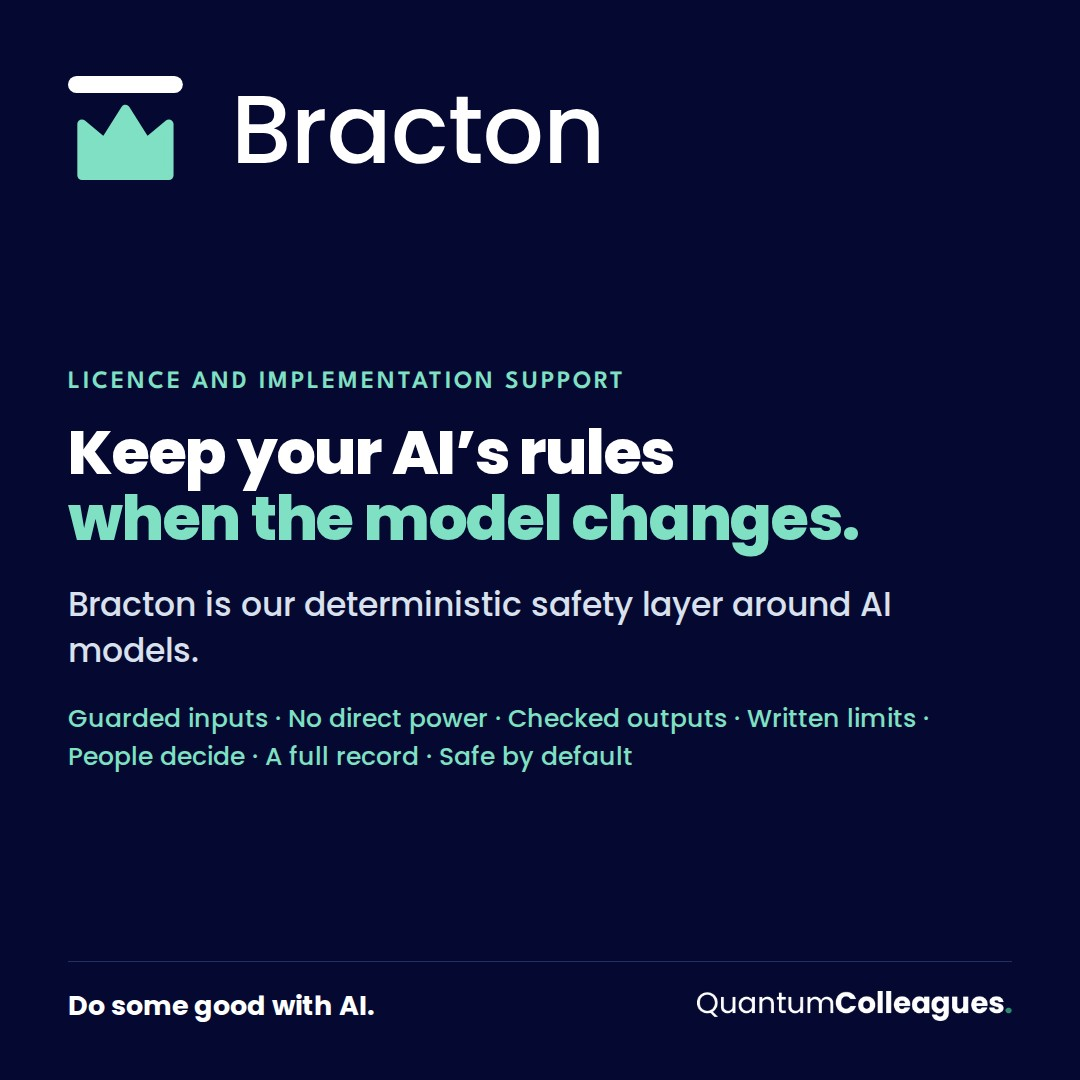
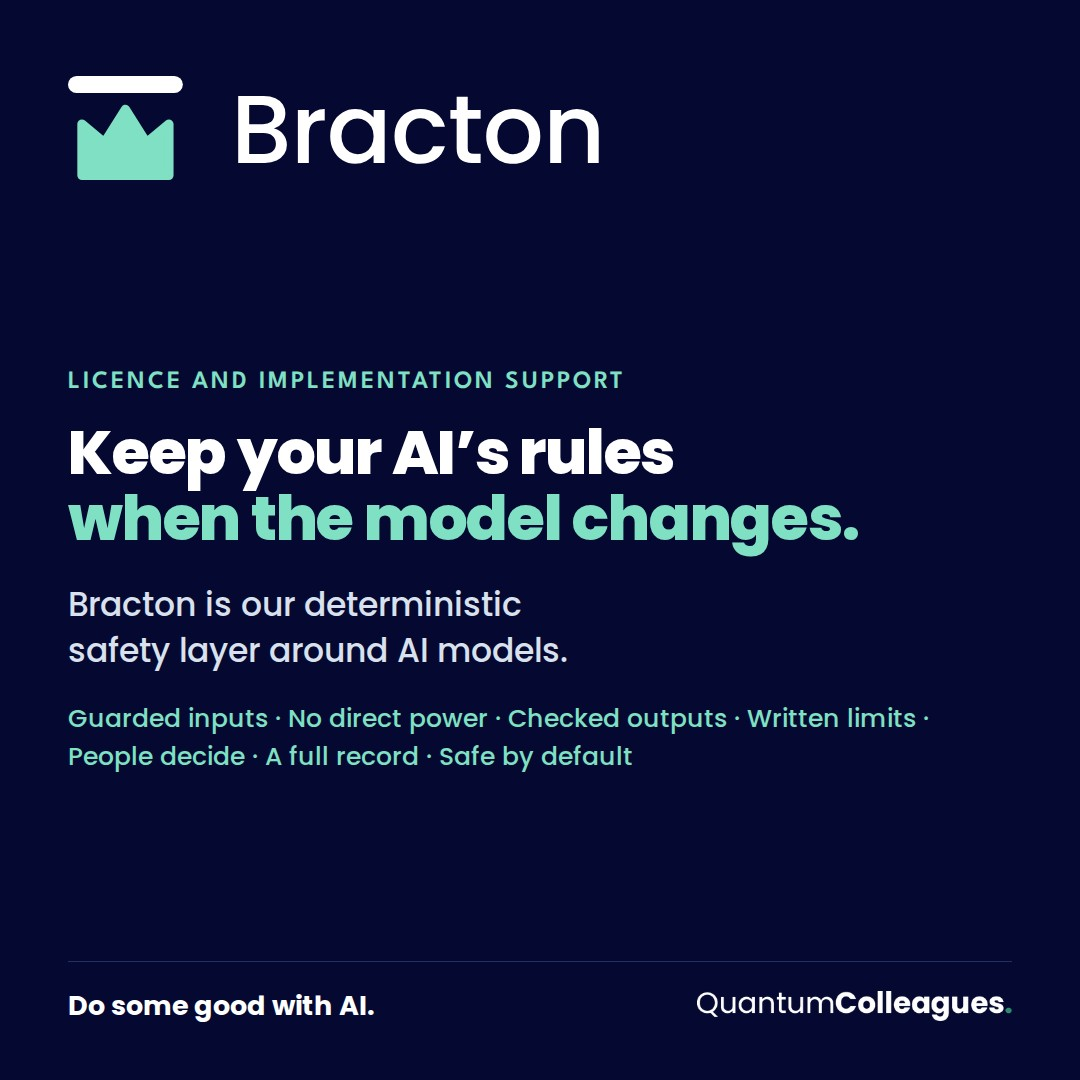
[C] Bracton page: house colour for the Admin Core link, and the tile's first sentence on two balanced lines
Both seen in the phone previews before they went to Jonathan.
verify_bracton_page.py GREEN 87/87, 29 of 29 planted faults caught.
verify_care_playbook.py now checks for a CHANGELOG entry that names the
Playbook rather than the top entry (GREEN 31/31). Not live.

Claude-Session: https://claude.ai/code/session_01XdWH4wgcDAKPyqL2U9NkLZ

Changed region(s): [[0.0611, 0.55, 0.825, 0.6417]]

diff --git a/bracton.html b/bracton.html
@@ -131,6 +131,7 @@
 <meta name="twitter:image" content="https://quantumcolleagues.org/bracton-social.jpg">
 <link rel="icon" href="/favicon.ico" sizes="any">
 <link rel="apple-touch-icon" href="/apple-touch-icon.png">
+<style>.column a{color:#1F6B53;font-weight:600;text-decoration:underline;text-underline-offset:3px}</style>
 </head>
 <body>
 

diff --git a/CHANGELOG.md b/CHANGELOG.md
@@ -1,3 +1,8 @@
+## 2026-11-20 [C] Bracton page: the Admin Core link in the house colour, and the tile's first sentence on two balanced lines (on dev, not live)
+- Seen in the phone previews before they went to Jonathan. The Admin Core link in the page's last section showed in the browser's default blue, because the house service page leaves links in its columns unstyled. bracton.html now gives them the deep teal #1F6B53 that the house uses for text links on light backgrounds (build_bracton_page.py). On bracton-tile.jpg the first sentence left "models." alone on its second line, and it is now balanced over its two lines (make_bracton_page_images.py). bracton-social.jpg renders byte for byte as before.
+- verify_bracton_page.py gains a check for the link colour and is GREEN 87/87, and plant_faults_bracton_page.py caught 29 of 29 with the new fault included.
+- Verifier upkeep: verify_care_playbook.py checked that the top CHANGELOG entry named the Playbook, which any later entry breaks (the entry for e906e02 did). It now checks that the heading of an entry names the Playbook page, and it is GREEN 31/31 here; plant_faults_care_playbook_copy.py caught 7 of 7.
+
 ## 2026-11-20 [C] Bracton gets its own page, licensed with implementation support, and is listed on Products, Admin Core, the Bracton Thought, llms.txt and the sitemap (on dev, not live)
 - Jonathan, 19 Nov 10:07 UK: license Bracton with implementation support, and "The page should be all about that on the website." At 23:09 UK: "I think Bracton needs to be independent to but complementary too Admin Core. It should be stand alone". On 20 Nov at 08:07 UK he approved the page text: "Go. It's doable platform work". Promotion waits for his "Promote".
 - bracton.html (new) carries the approved text word for word: the eyebrow, the headline "Keep your AI's rules when the model changes.", the lede and four sections (what it does, what you get, who it's for, on its own or with Admin Core), then the enquiry band "Talk to us about a licence." Its head, header, faces ribbon, enquiry form, footer and script come from advisory.html with every swap asserted. The form sends to information@ through FormSubmit with the subject "Bracton licence enquiry from <name>" and falls back to a mailto link. There is no price and nothing on the inner workings (option 3 of 18 Nov). Built by build_bracton_page.py.
